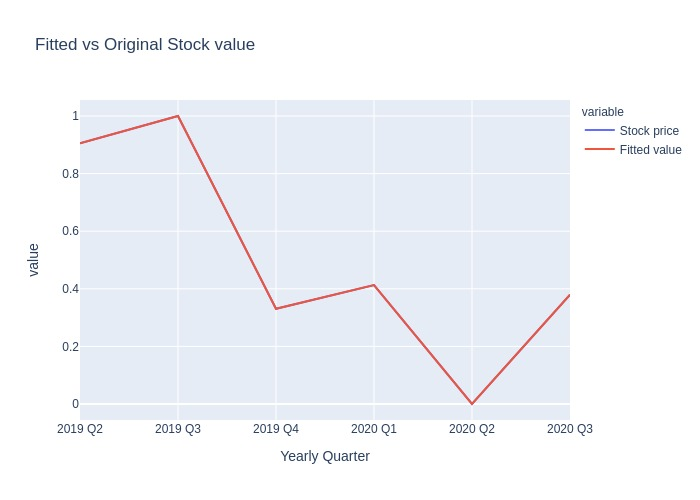
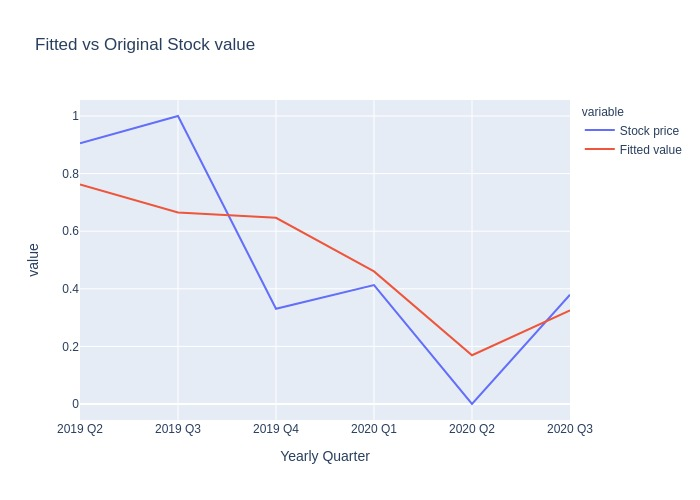
Add model plots

diff --git a/graphs.py b/graphs.py
@@ -1,6 +1,6 @@
 import pandas
 from sklearn.preprocessing import PolynomialFeatures
-from sklearn.linear_model import LinearRegression
+from sklearn.linear_model import Ridge, LinearRegression
 from sklearn.metrics import mean_squared_error, r2_score
 from sklearn.preprocessing import MinMaxScaler
 import plotly.express as px
@@ -81,7 +81,9 @@ def drawgraphs():
 
 def model():
     polynomial_features= PolynomialFeatures(degree=2)
+    #x_poly = polynomial_features.fit_transform(df[['Externalities', 'MAPC', 'Total revenue', 'Total bookings']])
     x_poly = polynomial_features.fit_transform(df[[x for x in columns if x != 'Stock price']])
+    print(x_poly)
 
     y = df['Stock price']
     model = LinearRegression()
@@ -92,9 +94,9 @@ def model():
     print(df)
     print(df['Fitted value'])
 
-    title = 'Fitted vs Original Stock value'
+    title = 'Quadratic Regression all features'
     fig = px.line(df, x='Yearly Quarter', y=['Stock price', 'Fitted value'], title=title)
-    savefig(fig, 'consolidated/' + title)
+    savefig(fig, 'model/' + title)
 
     rmse = np.sqrt(mean_squared_error(y,y_poly_pred))
     print(rmse)
